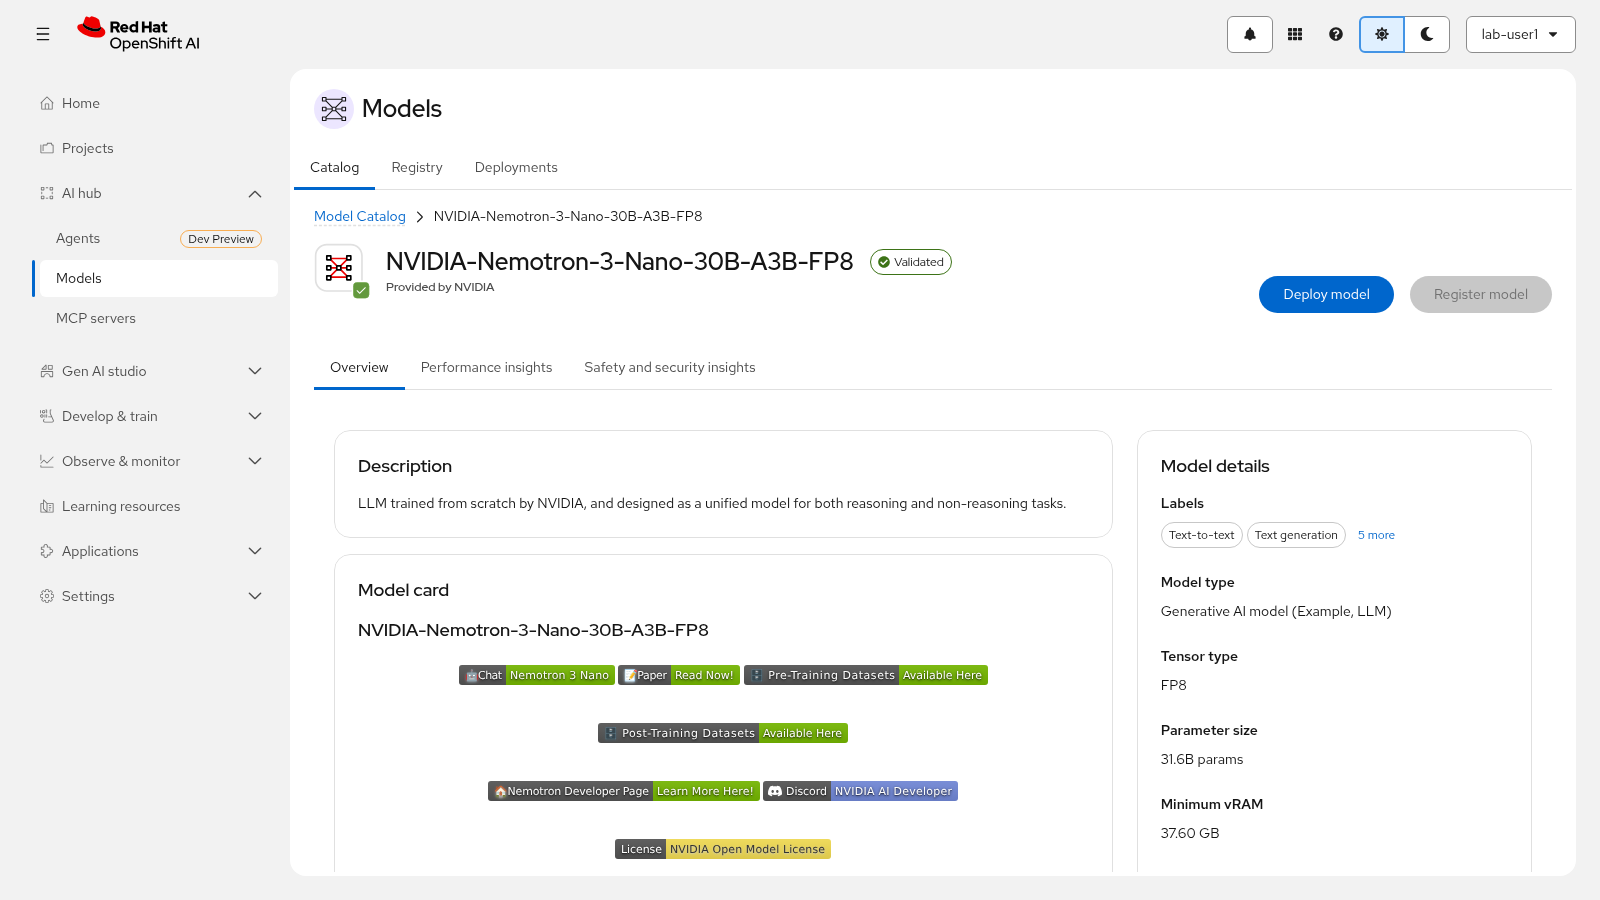
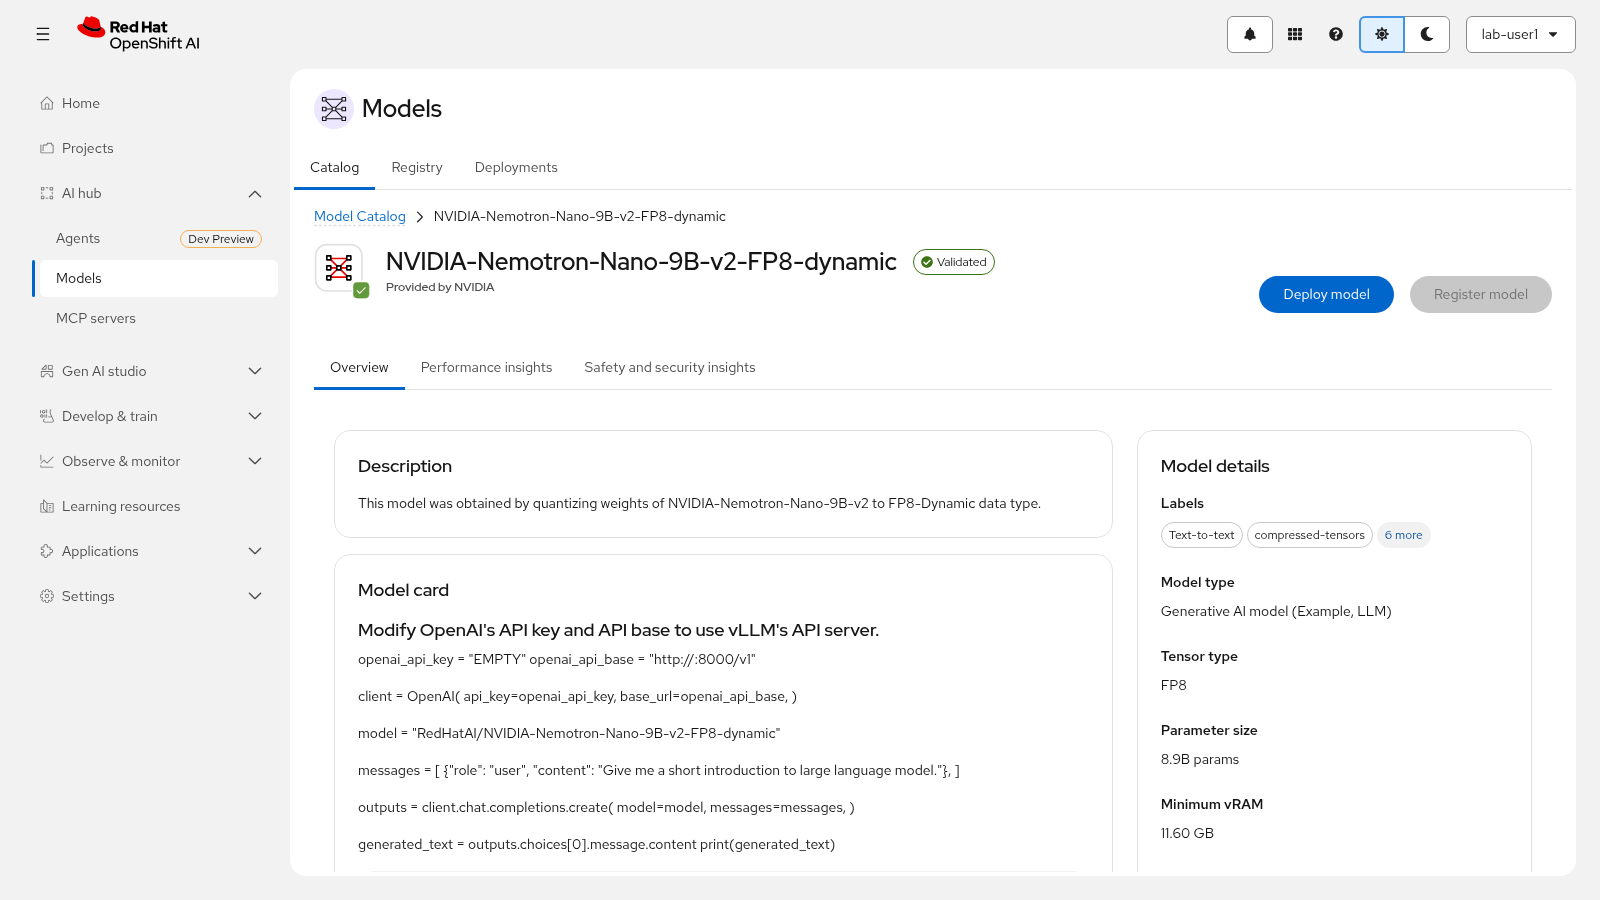
🪫 pesky l4 not l40s🪫

diff --git a/qa/runs/redhat-ai-inference/model-switch-checklist.md b/qa/runs/redhat-ai-inference/model-switch-checklist.md
@@ -57,6 +57,33 @@ the 9B model (11.6 GB, fits the lab's g6.2xlarge / L4 24 GB node).
 - [ ] Verify the external URL `https://inference-gateway.apps.<cluster-domain>/...`
       resolves (curl + the dashboard's Deployments → Internal and external endpoint)
 
+## Pending — screenshots (recaptured for the 9B flow)
+
+- [x] Recaptured all 10 Module 1 screenshots at 1600x900 for the 9B flow:
+      catalog (nemotron search + 9B card visible), 9B model card, wizard model
+      details (9B modelcar URI), wizard deployment ("GPU serving (NVIDIA GPU)"
+      profile + "vLLM NVIDIA GPU Single Node" accelerator), wizard advanced
+      (model-tester + the 3 args), wizard review, deployment status (Ready on
+      AI asset endpoints), endpoints dialog
+- [x] Wizard walked WITHOUT clicking Deploy (screenshots only) the first time —
+      but the deploy wizard opened in update/cleanup mode for the already-
+      deployed model and Cancel DELETED the live deployment (events: the
+      config cleanup attempted mid-deletion). GOTCHA for docs/QA: never reopen
+      the deploy wizard for an already-deployed model — it is not safe to walk
+      it without deploying.
+- [x] Redeployed the 9B via the wizard for real (name `nemotron-nano-9b-v2`,
+      gpu-serving + vLLM NVIDIA GPU Single Node, model-tester SA, the 3 args,
+      AI asset endpoint) — READY True again, inference smoke-tested OK
+- [ ] AFTER the hostname fix sync: recapture `101-inference-endpoint.png` —
+      the dialog's External API endpoint currently shows the double-apps
+      hostname; the corrected single-apps hostname changes it
+- [x] SNI finding: once the Gateway listener has a hostname, connections with
+      a different SNI are reset ("Connection reset by peer") — the dialog's
+      Internal API endpoint (service-name SNI) does NOT work with a listener
+      hostname; the docs use the external hostname (resolves in-cluster via
+      the router wildcard, SNI matches) — same shape as the maas gateway
+
+
 ## Pending — images + docs (needs the model sorted first)
 
 - [ ] Recapture Module 1 screenshots for the 9B flow:
